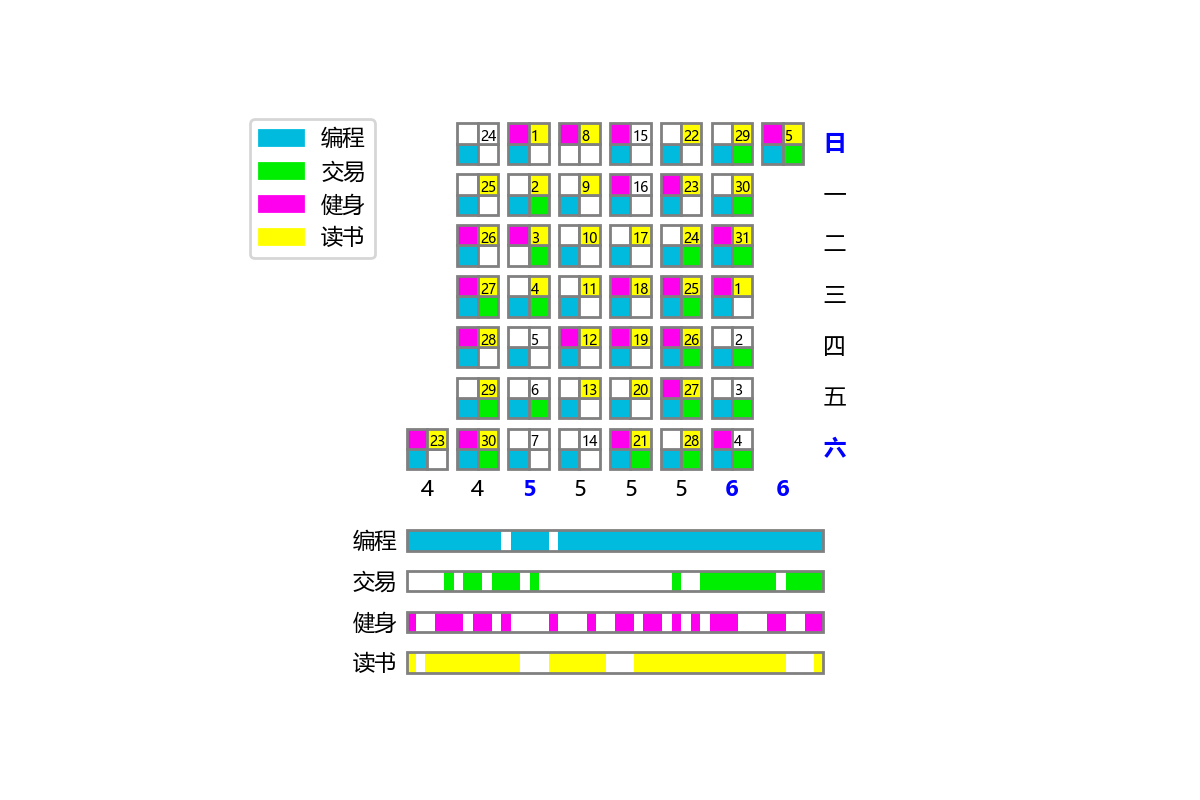
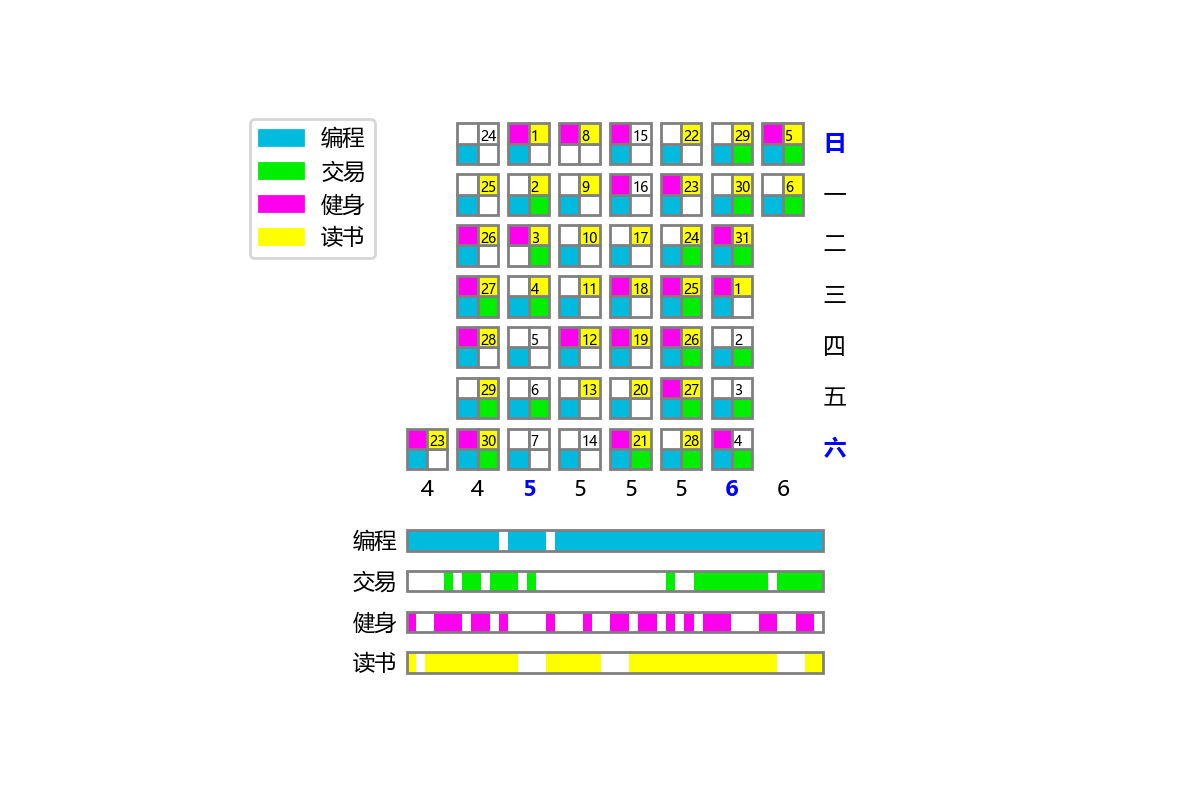
x Fix latest day format; Daily update

diff --git a/data_vis.py b/data_vis.py
@@ -97,8 +97,12 @@ class CalendarPlotter:
             month_text_y = self.calendar_bottom - self.rect_y_len * 0.5
             month_text_str = f"{date.month}"
             # month_text_str = date.strftime("%b")
-            one_week_delta = datetime.timedelta(days=7)
-            if date.month == (date - one_week_delta).month:
+            if is_last_day:
+                days_delta = (date.isoweekday() + 1) % 7
+            else:
+                days_delta = 7
+            previ_month_days_delta = datetime.timedelta(days=days_delta)
+            if date.month == (date - previ_month_days_delta).month:
                 color, fontweight = "black", "normal"
             else:
                 color, fontweight = "blue", "bold"
